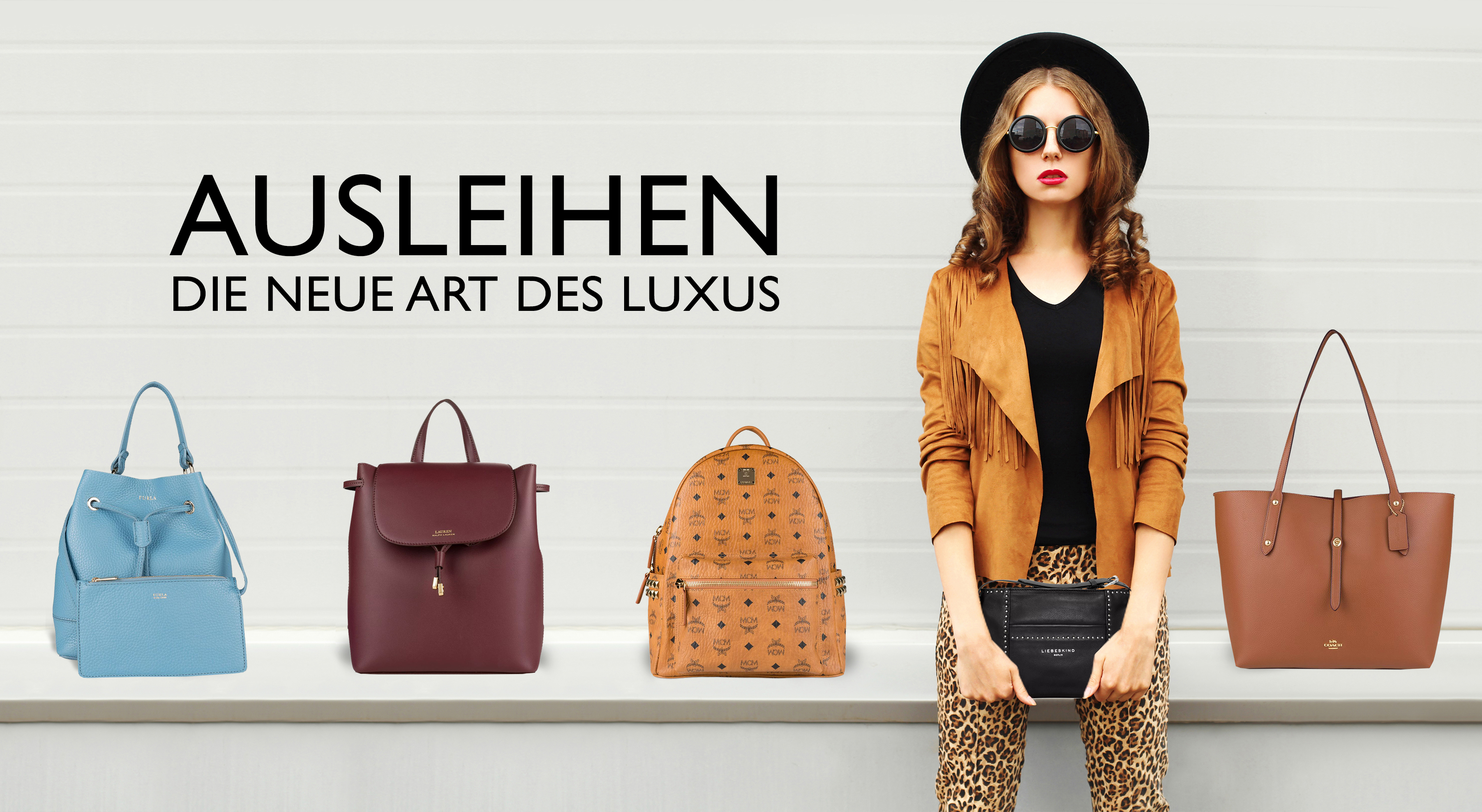
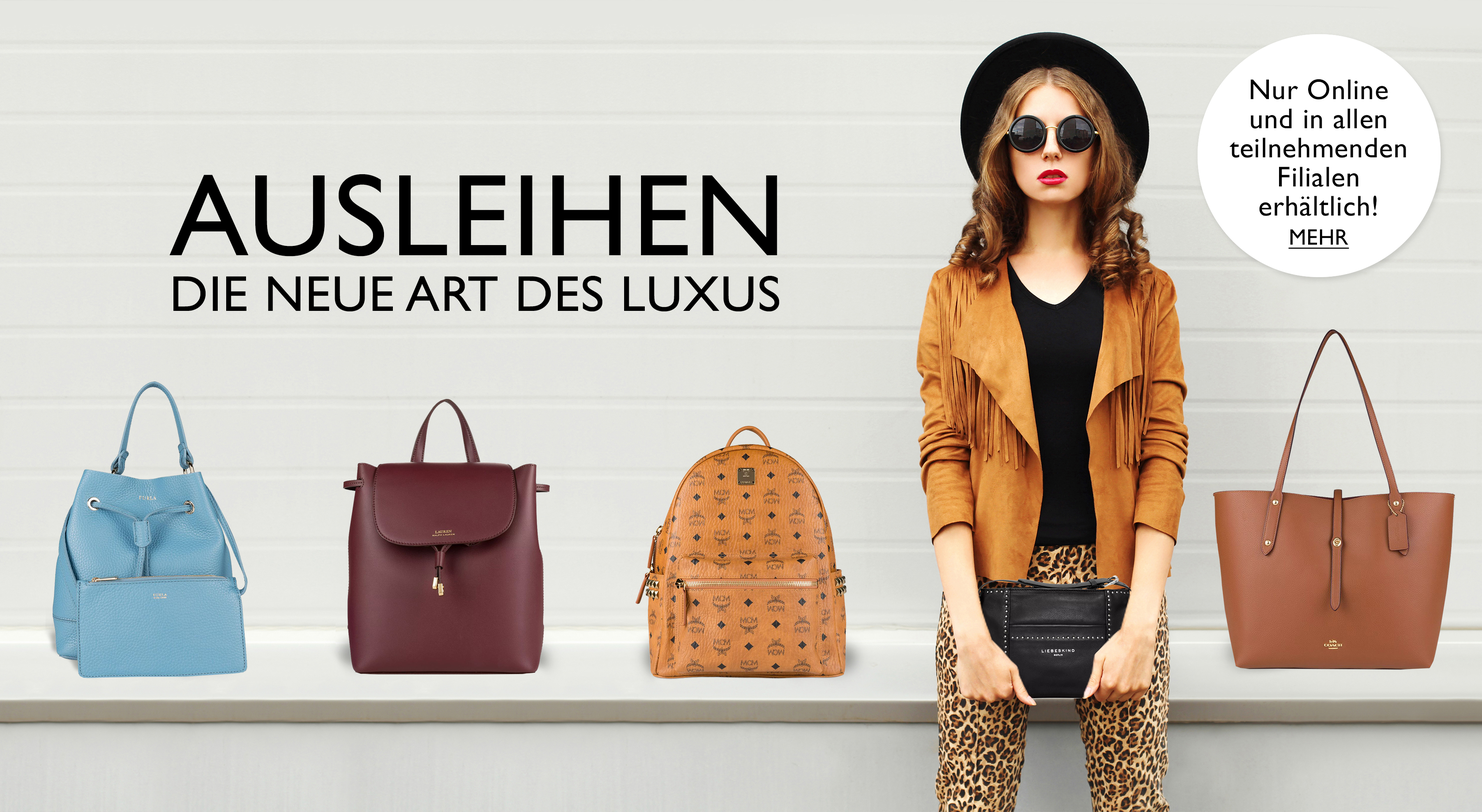
Explizit Filialen erwähnt

Changed region(s): [[0.8069, 0.0312, 0.9932, 0.3429]]

diff --git a/css/agency.min.css b/css/agency.min.css
@@ -2,4 +2,4 @@
  * Start Bootstrap - Agency v4.1.1 (https://startbootstrap.com/template-overviews/agency)
  * Copyright 2013-2018 Start Bootstrap
  * Licensed under MIT (https://github.com/BlackrockDigital/startbootstrap-agency/blob/master/LICENSE)
- */html{font-size:18px}body{overflow-x:hidden;font-family:Lato,Arial,sans-serif}p{line-height:1.75}a{color:#000}a:hover{color:#000}.text-primary{color:#000!important}h1,h2,h3,h4,h5,h6{font-weight:700;font-family:Lato,Arial,sans-serif}section{padding:100px 0}section h2.section-heading{font-weight:300;font-size:1.5em;color:#9f8f68;margin:0}section h3{color:#666;font-size:1em;margin-top:1.2em}section blockquote{font-size:2em;font-weight:300;line-height:1.3}@media (min-width:768px){section blockquote{font-size:3em}}section p{color:#666}section p.section-heading{max-width:660px;margin-left:auto;margin-right:auto}section small{font-size:.65em}.btn{font-family:Lato,Arial,sans-serif;font-weight:500;border-radius:0;color:#9f8f68;text-transform:uppercase;white-space:normal}.btn-xl{font-size:1.3em;padding:.6em 1em}.btn-primary{background-color:#000;border-color:#000}.btn-primary:active,.btn-primary:focus,.btn-primary:hover{background-color:#000!important;border-color:#000!important;color:#fff}.btn-primary:active,.btn-primary:focus{box-shadow:0 0 0 .2rem #9f8f68!important}::-moz-selection{background:#000;text-shadow:none}::selection{background:#000;text-shadow:none}img::selection{background:0 0}img::-moz-selection{background:0 0}#mainNav{background-color:#000}#mainNav .container{display:grid;grid:repeat(3,auto)/auto}#mainNav .navbar-toggler{font-size:12px;right:0;padding:13px;text-transform:uppercase;color:#fff;border:0;background-color:#000;font-family:Lato,Arial,sans-serif}#mainNav .navbar-brand{grid-row:1/-1;color:#000;background-color:#000;padding:1rem;margin-right:auto;font-family:Lato,Arial,sans-serif}#mainNav .navbar-brand.active,#mainNav .navbar-brand:active,#mainNav .navbar-brand:focus,#mainNav .navbar-brand:hover{color:#fff}#mainNav .navbar-brand .trialstore{color:#fff;text-transform:uppercase}#mainNav .navbar-brand .subline{color:#fff;font-size:40%}#mainNav .nav-locations{grid-column:2;justify-self:end;font-size:.6em;text-decoration:none;color:#fff;font-family:Lato,Arial,sans-serif}#mainNav .nav-locations.active,#mainNav .nav-locations:hover{color:#fff}#mainNav .navbar-nav .nav-item .nav-link{font-size:90%;font-weight:400;padding:.75em 0;letter-spacing:1px;color:#fff;font-family:Lato,Arial,sans-serif}#mainNav .navbar-nav .nav-item .nav-link.active,#mainNav .navbar-nav .nav-item .nav-link:hover{color:#fff}@media (min-width:992px){#mainNav{padding-top:5px;padding-bottom:4px;-webkit-transition:padding-top .3s,padding-bottom .3s;-moz-transition:padding-top .3s,padding-bottom .3s;transition:padding-top .3s,padding-bottom .3s;border:none;background-color:#000}#mainNav .container{display:flex}#mainNav .navbar-brand{font-size:1.5em;-webkit-transition:all .3s;-moz-transition:all .3s;transition:all .3s}#mainNav .nav-locations{display:block;font-size:1em;color:#9f8f68;padding:0 .5em}#mainNav .nav-locations+.nav-locations{border-left:2px solid #868e96}#mainNav .navbar-nav .nav-item .nav-link{padding:1.1em 1em!important}#mainNav.navbar-shrink{padding-top:5px;padding-bottom:4px;background-color:#000}#mainNav.navbar-shrink .nav-locations{color:#9f8f68}#mainNav.navbar-shrink .nav-locations.active,#mainNav.navbar-shrink .nav-locations:hover{color:#fff}#mainNav.navbar-shrink .navbar-brand{font-size:1.25em;padding:12px 20px}}header.masthead{position:relative;text-align:center;background-repeat:no-repeat;background-attachment:scroll;background-position:center center;margin-top:5em}header.masthead img{width:100vw}@media (min-width:992px){header.masthead{margin-top:5em}}#faq{background-color:#e9ecef;color:#212529}#locations [class*=js-location-]{margin-bottom:2em}#locations .popup-warning{border-style:solid;border-width:2px;padding:1em;margin-bottom:2em;text-align:center}#locations img{width:100%;max-width:14em;margin-bottom:1em;margin-top:2em}footer{background-color:#9f8f68;color:#fff;padding:25px 0;text-align:center}footer span.copyright{font-size:90%;line-height:40px;text-transform:none;font-family:Lato,Arial,sans-serif}footer ul.quicklinks{font-size:90%;line-height:40px;margin-bottom:0;text-transform:none;font-family:Lato,Arial,sans-serif}ul.social-buttons{margin-bottom:0}ul.social-buttons li a{font-size:20px;line-height:40px;display:block;width:40px;height:40px;-webkit-transition:all .3s;-moz-transition:all .3s;transition:all .3s;color:#fff;border-radius:100%;outline:0;background-color:#212529}ul.social-buttons li a:active,ul.social-buttons li a:focus,ul.social-buttons li a:hover{background-color:#000}.impressum-modal{padding-right:0!important}.impressum-modal .modal-dialog{margin:1rem;max-width:100vw}.impressum-modal .modal-content{padding:100px 0;text-align:center}.impressum-modal .modal-content h2{font-size:3em;margin-bottom:15px}.impressum-modal .modal-content p{margin-bottom:30px}.impressum-modal .modal-content p.item-intro{font-size:16px;font-style:italic;margin:20px 0 30px;font-family:Lato,Arial,sans-serif}.impressum-modal .modal-content ul.list-inline{margin-top:0;margin-bottom:30px}.impressum-modal .modal-content img{margin-bottom:30px}.impressum-modal .modal-content button{cursor:pointer}.impressum-modal .close-modal{position:absolute;top:25px;right:25px;width:75px;height:75px;cursor:pointer;background-color:transparent}.impressum-modal .close-modal:hover{opacity:.3}.impressum-modal .close-modal .lr{z-index:1051;width:1px;height:75px;margin-left:35px;-webkit-transform:rotate(45deg);-ms-transform:rotate(45deg);transform:rotate(45deg);background-color:#212529}.impressum-modal .close-modal .lr .rl{z-index:1052;width:1px;height:75px;-webkit-transform:rotate(90deg);-ms-transform:rotate(90deg);transform:rotate(90deg);background-color:#212529}.quicklinks{cursor:pointer}.agbs-modal{padding-right:0!important}.agbs-modal .modal-dialog{margin:1rem;max-width:100vw}.agbs-modal .modal-content{padding:100px 0}.agbs-modal .modal-content h2{font-size:3em;margin-bottom:15px}.agbs-modal .modal-content p{margin-bottom:30px}.agbs-modal .modal-content p.item-intro{font-size:16px;font-style:italic;margin:20px 0 30px;font-family:Lato,Arial,sans-serif}.agbs-modal .modal-content ul.list-inline{margin-top:0;margin-bottom:30px}.agbs-modal .modal-content img{margin-bottom:30px}.agbs-modal .modal-content button{cursor:pointer}.agbs-modal .close-modal{position:absolute;top:25px;right:25px;width:75px;height:75px;cursor:pointer;background-color:transparent}.agbs-modal .close-modal:hover{opacity:.3}.agbs-modal .close-modal .lr{z-index:1051;width:1px;height:75px;margin-left:35px;-webkit-transform:rotate(45deg);-ms-transform:rotate(45deg);transform:rotate(45deg);background-color:#212529}.agbs-modal .close-modal .lr .rl{z-index:1052;width:1px;height:75px;-webkit-transform:rotate(90deg);-ms-transform:rotate(90deg);transform:rotate(90deg);background-color:#212529}.quicklinks{cursor:pointer}#lab [class*=col-]{margin-bottom:.5em}#lab .gutschein{font-weight:700;color:#d10000}#lab img{width:100%}#newsletter{background:center/cover no-repeat url(/img/newletter-bg.jpg)}#newsletter blockquote,#newsletter p{color:#fff}#newsletter-form{position:relative}#newsletter-form input{border:none;padding:2em 0}#newsletter-form input::placeholder{color:#9f8f68;font-size:1.2em}#newsletter-form input:focus{outline:0;box-shadow:none}@media (max-width:991px){#newsletter-form input{border-bottom:2px solid #9f8f68;border-radius:0}}#newsletter-form button{font-size:1.2em;width:100%;height:100%}#newsletter-form button svg{height:1em;width:2em;margin-left:1em;stroke:currentColor}@media (max-width:991px){#newsletter-form button{margin-bottom:2em}}@media (min-width:992px){#newsletter-form button{text-align:right}#newsletter-form button:after{content:" ";display:block;position:absolute;top:0;left:calc(100% - 1em);height:100%;width:30em;background-color:#000}}@media (max-width:991px){#newsletter-form .col-lg-6{margin-bottom:2em}}.bag-img{width:100%}#product-list h3{margin-bottom:1em}#product-list p{line-height:1}#product-list button{margin-top:1em}#product-list div{margin:3em 0;padding:0 3em}#howitworks img{width:11em;height:10em;padding:2em}#howitworks #steps .col-md-4{padding-left:2em;padding-right:2em}#teaser blockquote{font-size:2.8em}#teaser img{width:100%;margin-top:2.4em}#teaser .bag-teaser{margin-top:7em}div[data-for=address2],div[data-for=province]{display:none}#snipcart-bill-me-later{color:#fff}a:not([href]):not([tabindex]).snip-btn{color:#000}#snipcart-main-content .snip-header__title{font-size:2.5em;font-weight:400;text-transform:none;left:.5em}#snipcart-main-content #snipcart-items .snip-table__header{font-size:1em;font-weight:700;text-transform:none;color:#666;background:#e9ecef}#snipcart-main-content #snipcart-items #snipcart-items-list{border-top:none}#snipcart-main-content #snipcart-items .snip-product__name{text-transform:none}#snipcart-main-content #snipcart-items #snipcart_custom_75-nach-100-Tagen{border:none;padding:0}#snipcart-main-content .custom-snipcart-footer-text{background:#f8f9fa;padding:3em 1.4em 1em}#snipcart-main-content .custom-snipcart-footer-text h2{font-weight:700;margin-bottom:1.5em;color:#868e96}#snipcart-main-content .custom-snipcart-footer-text p{line-height:1.8;color:#868e96;margin-bottom:1.5em}#snipcart-main-content .custom-snipcart-footer-text a{cursor:pointer}
+ */html{font-size:18px}body{overflow-x:hidden;font-family:Lato,Arial,sans-serif}p{line-height:1.75}a{color:#000}a:hover{color:#000}.text-primary{color:#000!important}h1,h2,h3,h4,h5,h6{font-weight:700;font-family:Lato,Arial,sans-serif}section{padding:100px 0}section h2.section-heading{font-weight:300;font-size:1.5em;color:#9f8f68;margin:0}section h3{color:#666;font-size:1em;margin-top:1.2em}section blockquote{font-size:2em;font-weight:300;line-height:1.3}@media (min-width:768px){section blockquote{font-size:3em}}section p{color:#666}section p.section-heading{max-width:660px;margin-left:auto;margin-right:auto}section small{font-size:.65em}.btn{font-family:Lato,Arial,sans-serif;font-weight:500;border-radius:0;color:#9f8f68;text-transform:uppercase;white-space:normal}.btn-xl{font-size:1.3em;padding:.6em 1em}.btn-primary{background-color:#000;border-color:#000}.btn-primary:active,.btn-primary:focus,.btn-primary:hover{background-color:#000!important;border-color:#000!important;color:#fff}.btn-primary:active,.btn-primary:focus{box-shadow:0 0 0 .2rem #9f8f68!important}::-moz-selection{background:#000;text-shadow:none}::selection{background:#000;text-shadow:none}img::selection{background:0 0}img::-moz-selection{background:0 0}#mainNav{background-color:#000}#mainNav .container{display:grid;grid:repeat(3,auto)/auto}#mainNav .navbar-toggler{font-size:12px;right:0;padding:13px;text-transform:uppercase;color:#fff;border:0;background-color:#000;font-family:Lato,Arial,sans-serif}#mainNav .navbar-brand{grid-row:1/-1;color:#000;background-color:#000;padding:1rem;margin-right:auto;font-family:Lato,Arial,sans-serif}#mainNav .navbar-brand.active,#mainNav .navbar-brand:active,#mainNav .navbar-brand:focus,#mainNav .navbar-brand:hover{color:#fff}#mainNav .navbar-brand .trialstore{color:#fff;text-transform:uppercase}#mainNav .navbar-brand .subline{color:#fff;font-size:40%}#mainNav .nav-locations{grid-column:2;justify-self:end;font-size:.6em;text-decoration:none;color:#fff;font-family:Lato,Arial,sans-serif}#mainNav .nav-locations.active,#mainNav .nav-locations:hover{color:#fff}#mainNav .navbar-nav .nav-item .nav-link{font-size:90%;font-weight:400;padding:.75em 0;letter-spacing:1px;color:#fff;font-family:Lato,Arial,sans-serif}#mainNav .navbar-nav .nav-item .nav-link.active,#mainNav .navbar-nav .nav-item .nav-link:hover{color:#fff}@media (min-width:992px){#mainNav{padding-top:5px;padding-bottom:4px;-webkit-transition:padding-top .3s,padding-bottom .3s;-moz-transition:padding-top .3s,padding-bottom .3s;transition:padding-top .3s,padding-bottom .3s;border:none;background-color:#000}#mainNav .container{display:flex}#mainNav .navbar-brand{font-size:1.5em;-webkit-transition:all .3s;-moz-transition:all .3s;transition:all .3s}#mainNav .nav-locations{display:block;font-size:1em;color:#9f8f68;padding:0 .5em}#mainNav .nav-locations+.nav-locations{border-left:2px solid #868e96}#mainNav .navbar-nav .nav-item .nav-link{padding:1.1em 1em!important}#mainNav.navbar-shrink{padding-top:5px;padding-bottom:4px;background-color:#000}#mainNav.navbar-shrink .nav-locations{color:#9f8f68}#mainNav.navbar-shrink .nav-locations.active,#mainNav.navbar-shrink .nav-locations:hover{color:#fff}#mainNav.navbar-shrink .navbar-brand{font-size:1.25em;padding:12px 20px}}header.masthead{position:relative;text-align:center;background-repeat:no-repeat;background-attachment:scroll;background-position:center center;margin-top:5em}header.masthead img{width:100vw}header.masthead .header-button{display:block;position:absolute;top:0;right:0;width:20%;height:40%}@media (min-width:992px){header.masthead{margin-top:5em}}#faq{background-color:#e9ecef;color:#212529}#locations [class*=js-location-]{margin-bottom:2em}#locations .popup-warning{border-style:solid;border-width:2px;padding:1em;margin-bottom:2em;text-align:center}#locations img{width:100%;max-width:14em;margin-bottom:1em;margin-top:2em}footer{background-color:#9f8f68;color:#fff;padding:25px 0;text-align:center}footer span.copyright{font-size:90%;line-height:40px;text-transform:none;font-family:Lato,Arial,sans-serif}footer ul.quicklinks{font-size:90%;line-height:40px;margin-bottom:0;text-transform:none;font-family:Lato,Arial,sans-serif}ul.social-buttons{margin-bottom:0}ul.social-buttons li a{font-size:20px;line-height:40px;display:block;width:40px;height:40px;-webkit-transition:all .3s;-moz-transition:all .3s;transition:all .3s;color:#fff;border-radius:100%;outline:0;background-color:#212529}ul.social-buttons li a:active,ul.social-buttons li a:focus,ul.social-buttons li a:hover{background-color:#000}.impressum-modal{padding-right:0!important}.impressum-modal .modal-dialog{margin:1rem;max-width:100vw}.impressum-modal .modal-content{padding:100px 0;text-align:center}.impressum-modal .modal-content h2{font-size:3em;margin-bottom:15px}.impressum-modal .modal-content p{margin-bottom:30px}.impressum-modal .modal-content p.item-intro{font-size:16px;font-style:italic;margin:20px 0 30px;font-family:Lato,Arial,sans-serif}.impressum-modal .modal-content ul.list-inline{margin-top:0;margin-bottom:30px}.impressum-modal .modal-content img{margin-bottom:30px}.impressum-modal .modal-content button{cursor:pointer}.impressum-modal .close-modal{position:absolute;top:25px;right:25px;width:75px;height:75px;cursor:pointer;background-color:transparent}.impressum-modal .close-modal:hover{opacity:.3}.impressum-modal .close-modal .lr{z-index:1051;width:1px;height:75px;margin-left:35px;-webkit-transform:rotate(45deg);-ms-transform:rotate(45deg);transform:rotate(45deg);background-color:#212529}.impressum-modal .close-modal .lr .rl{z-index:1052;width:1px;height:75px;-webkit-transform:rotate(90deg);-ms-transform:rotate(90deg);transform:rotate(90deg);background-color:#212529}.quicklinks{cursor:pointer}.agbs-modal{padding-right:0!important}.agbs-modal .modal-dialog{margin:1rem;max-width:100vw}.agbs-modal .modal-content{padding:100px 0}.agbs-modal .modal-content h2{font-size:3em;margin-bottom:15px}.agbs-modal .modal-content p{margin-bottom:30px}.agbs-modal .modal-content p.item-intro{font-size:16px;font-style:italic;margin:20px 0 30px;font-family:Lato,Arial,sans-serif}.agbs-modal .modal-content ul.list-inline{margin-top:0;margin-bottom:30px}.agbs-modal .modal-content img{margin-bottom:30px}.agbs-modal .modal-content button{cursor:pointer}.agbs-modal .close-modal{position:absolute;top:25px;right:25px;width:75px;height:75px;cursor:pointer;background-color:transparent}.agbs-modal .close-modal:hover{opacity:.3}.agbs-modal .close-modal .lr{z-index:1051;width:1px;height:75px;margin-left:35px;-webkit-transform:rotate(45deg);-ms-transform:rotate(45deg);transform:rotate(45deg);background-color:#212529}.agbs-modal .close-modal .lr .rl{z-index:1052;width:1px;height:75px;-webkit-transform:rotate(90deg);-ms-transform:rotate(90deg);transform:rotate(90deg);background-color:#212529}.quicklinks{cursor:pointer}#lab [class*=col-]{margin-bottom:.5em}#lab .gutschein{font-weight:700;color:#d10000}#lab img{width:100%}#newsletter{background:center/cover no-repeat url(/img/newletter-bg.jpg)}#newsletter blockquote,#newsletter p{color:#fff}#newsletter-form{position:relative}#newsletter-form input{border:none;padding:2em 0}#newsletter-form input::placeholder{color:#9f8f68;font-size:1.2em}#newsletter-form input:focus{outline:0;box-shadow:none}@media (max-width:991px){#newsletter-form input{border-bottom:2px solid #9f8f68;border-radius:0}}#newsletter-form button{font-size:1.2em;width:100%;height:100%}#newsletter-form button svg{height:1em;width:2em;margin-left:1em;stroke:currentColor}@media (max-width:991px){#newsletter-form button{margin-bottom:2em}}@media (min-width:992px){#newsletter-form button{text-align:right}#newsletter-form button:after{content:" ";display:block;position:absolute;top:0;left:calc(100% - 1em);height:100%;width:30em;background-color:#000}}@media (max-width:991px){#newsletter-form .col-lg-6{margin-bottom:2em}}#bags .bag-img{width:100%}#bags .info-text{font-size:.8em;margin:3em 0 0;text-align:center}#bags #product-list h3{margin-bottom:1em}#bags #product-list p{line-height:1}#product-list button{margin-top:1em}#bags #product-list div{margin:3em 0;padding:0 3em}#howitworks img{width:11em;height:10em;padding:2em}#howitworks #steps .col-md-4{padding-left:2em;padding-right:2em}#teaser blockquote{font-size:2.8em}#teaser img{width:100%;margin-top:2.4em}#teaser .bag-teaser{margin-top:7em}div[data-for=address2],div[data-for=province]{display:none}#snipcart-bill-me-later{color:#fff}a:not([href]):not([tabindex]).snip-btn{color:#000}#snipcart-main-content .snip-header__title{font-size:2.5em;font-weight:400;text-transform:none;left:.5em}#snipcart-main-content #snipcart-items .snip-table__header{font-size:1em;font-weight:700;text-transform:none;color:#666;background:#e9ecef}#snipcart-main-content #snipcart-items #snipcart-items-list{border-top:none}#snipcart-main-content #snipcart-items .snip-product__name{text-transform:none}#snipcart-main-content #snipcart-items #snipcart_custom_75-nach-100-Tagen{border:none;padding:0}#snipcart-main-content .custom-snipcart-footer-text{background:#f8f9fa;padding:3em 1.4em 1em}#snipcart-main-content .custom-snipcart-footer-text h2{font-weight:700;margin-bottom:1.5em;color:#868e96}#snipcart-main-content .custom-snipcart-footer-text p{line-height:1.8;color:#868e96;margin-bottom:1.5em}#snipcart-main-content .custom-snipcart-footer-text a{cursor:pointer}

diff --git a/die-neue-art-des-luxus/index.html b/die-neue-art-des-luxus/index.html
@@ -96,6 +96,7 @@
   <!-- Header -->
   <header class="masthead">
     <img src="img/die-neue-art-des-luxus-min.jpg" />
+    <a class="js-scroll-trigger header-button" href="#locations"></a>
   </header>
 
   <!-- Bags -->
@@ -109,6 +110,10 @@
           Such dir das Modell, das dir gefällt und leih’ es dir aus – nur solange du willst. Unkompliziert, online und
           zu einem Bruchteil des Kaufpreises.</p>
       </div>
+      <p class="info-text">
+        Nur Online und in allen teilnehmenden Filialen erhältlich!
+      </p>
+
       <div id="product-list" class="row">
 
         <div class="col-lg-4">
@@ -419,11 +424,11 @@
     <div class="container">
       <div class="row">
         <div class="col-lg-12 text-center">
-          <h2 class="section-heading text-uppercase">Standorte</h2>
-          <blockquote>Traumtaschen zum Greifen nah!</blockquote>
-          <p class="section-heading">Finde jetzt einen GLOBUS Store in deiner Nähe und sicher dir deine Tasche auf Zeit
-            – unverbindlich und
-            ohne Risiko.</p>
+          <h2 class="section-heading text-uppercase">Teilnehmende Filialen</h2>
+          <blockquote>Hol’ dir deine Lieblingtasche vor Ort!</blockquote>
+          <p class="section-heading">In den folgenden Flagship-Stores in Zurich und St. Gallen kannst du trendige Designer Bags
+            und viele weitere            Premiumprodukte aus den Bereichen Fashion, Elektronik, Haushalt und Wohnen direkt ausleihen und abholen. Schau’
+            einfach            mal rein und lass dich inspirieren. Unser Service-Personal vor Ort freut sich auf dich und berät dich gern!*</p>
         </div>
       </div>
       <div style="margin-top: 2em;" class="row">
@@ -469,7 +474,7 @@
             data-reactid="358" width="100%" height="550px" frameborder="0"></iframe>
         </div>
       </div>
-    </div>
+      <p class="text-center">*Alle anderen Globus-Filialen sind derzeit noch ausgenommen von der Aktion.</p>
     </div>
   </section>
 

diff --git a/dein-exklusiver-ausleih-store/index.html b/dein-exklusiver-ausleih-store/index.html
@@ -97,6 +97,7 @@
   <!-- Header -->
   <header class="masthead">
     <img src="img/dein-exklusiver-ausleih-store.jpg" />
+    <a class="js-scroll-trigger header-button" href="#locations"></a>
   </header>
 
   <!-- Bags -->
@@ -110,6 +111,10 @@
           die neuesten Modelle von Lagerfeld, Furla oder Coach aus und behalte sie nur so
           lange du willst. Jetzt in deinem Ausleih-Store shoppen gehen!</p>
       </div>
+      <p class="info-text">
+        Nur Online und in allen teilnehmenden Filialen erhältlich!
+      </p>
+
       <div id="product-list" class="row">
 
         <div class="col-lg-4">
@@ -420,11 +425,12 @@
     <div class="container">
       <div class="row">
         <div class="col-lg-12 text-center">
-          <h2 class="section-heading text-uppercase">Standorte</h2>
-          <blockquote>Traumtaschen zum Greifen nah!</blockquote>
-          <p class="section-heading">Finde jetzt einen GLOBUS Store in deiner Nähe und sicher dir deine Tasche auf Zeit
-            – unverbindlich und
-            ohne Risiko.</p>
+          <h2 class="section-heading text-uppercase">Teilnehmende Filialen</h2>
+          <blockquote>Hol’ dir deine Lieblingtasche vor Ort!</blockquote>
+          <p class="section-heading">In den folgenden Flagship-Stores in Zurich und St. Gallen kannst du trendige Designer Bags
+            und viele weitere Premiumprodukte aus den Bereichen Fashion, Elektronik, Haushalt und Wohnen direkt ausleihen und
+            abholen. Schau’
+            einfach mal rein und lass dich inspirieren. Unser Service-Personal vor Ort freut sich auf dich und berät dich gern!*</p>
         </div>
       </div>
       <div style="margin-top: 2em;" class="row">
@@ -470,7 +476,7 @@
             data-reactid="358" width="100%" height="550px" frameborder="0"></iframe>
         </div>
       </div>
-    </div>
+      <p class="text-center">*Alle anderen Globus-Filialen sind derzeit noch ausgenommen von der Aktion.</p>
     </div>
   </section>
 

diff --git a/ausleihen-was-du-willst/index.html b/ausleihen-was-du-willst/index.html
@@ -96,6 +96,7 @@
   <!-- Header -->
   <header class="masthead">
     <img src="img/ausleihen-was-du-willst.jpg" />
+    <a class="js-scroll-trigger header-button" href="#locations"></a>
   </header>
 
   <!-- Bags -->
@@ -108,7 +109,11 @@
           unkompliziert, online und zu einem Bruchteil des Kaufpreises. <br />Wähle aus den folgenden Top-Modellen
           jetzt den Eye-Catcher, der zu dir
           passt!</p>
+
       </div>
+      <p class="info-text">
+        Nur Online und in allen teilnehmenden Filialen erhältlich!
+      </p>
       <div id="product-list" class="row">
 
         <div class="col-lg-4">
@@ -419,11 +424,11 @@
     <div class="container">
       <div class="row">
         <div class="col-lg-12 text-center">
-          <h2 class="section-heading text-uppercase">Standorte</h2>
-          <blockquote>Traumtaschen zum Greifen nah!</blockquote>
-          <p class="section-heading">Finde jetzt einen GLOBUS Store in deiner Nähe und sicher dir deine Tasche auf Zeit
-            – unverbindlich und
-            ohne Risiko.</p>
+          <h2 class="section-heading text-uppercase">Teilnehmende Filialen</h2>
+          <blockquote>Hol’ dir deine Lieblingtasche vor Ort!</blockquote>
+          <p class="section-heading">In den folgenden Flagship-Stores in Zurich und St. Gallen kannst du trendige Designer Bags und viele weitere
+          Premiumprodukte aus den Bereichen Fashion, Elektronik, Haushalt und Wohnen direkt ausleihen und abholen. Schau’ einfach
+          mal rein und lass dich inspirieren. Unser Service-Personal vor Ort freut sich auf dich und berät dich gern!*</p>
         </div>
       </div>
       <div style="margin-top: 2em;" class="row">
@@ -469,7 +474,7 @@
             data-reactid="358" width="100%" height="550px" frameborder="0"></iframe>
         </div>
       </div>
-    </div>
+      <p class="text-center">*Alle anderen Globus-Filialen sind derzeit noch ausgenommen von der Aktion.</p>
     </div>
   </section>
 

diff --git a/leih-ich-mir/index.html b/leih-ich-mir/index.html
@@ -96,6 +96,7 @@
   <!-- Header -->
   <header class="masthead">
     <img src="img/das-leih-ich-mir.jpg" />
+    <a class="js-scroll-trigger header-button" href="#locations"></a>
   </header>
 
   <!-- Bags -->
@@ -108,6 +109,10 @@
           u.v.m. zusammengestellt. Sei spontan! Anstatt zu kaufen, leih dir jetzt dein exklusives Luxus-Modell –
           solange es dir gefällt.</p>
       </div>
+      <p class="info-text">
+        Nur Online und in allen teilnehmenden Filialen erhältlich!
+      </p>
+
       <div id="product-list" class="row">
 
         <div class="col-lg-4">
@@ -418,11 +423,12 @@
     <div class="container">
       <div class="row">
         <div class="col-lg-12 text-center">
-          <h2 class="section-heading text-uppercase">Standorte</h2>
-          <blockquote>Traumtaschen zum Greifen nah!</blockquote>
-          <p class="section-heading">Finde jetzt einen GLOBUS Store in deiner Nähe und sicher dir deine Tasche auf Zeit
-            – unverbindlich und
-            ohne Risiko.</p>
+          <h2 class="section-heading text-uppercase">Teilnehmende Filialen</h2>
+          <blockquote>Hol’ dir deine Lieblingtasche vor Ort!</blockquote>
+          <p class="section-heading">In den folgenden Flagship-Stores in Zurich und St. Gallen kannst du trendige Designer Bags
+            und viele weitere Premiumprodukte aus den Bereichen Fashion, Elektronik, Haushalt und Wohnen direkt ausleihen und
+            abholen. Schau’
+            einfach mal rein und lass dich inspirieren. Unser Service-Personal vor Ort freut sich auf dich und berät dich gern!*</p>
         </div>
       </div>
       <div style="margin-top: 2em;" class="row">
@@ -468,7 +474,7 @@
             data-reactid="358" width="100%" height="550px" frameborder="0"></iframe>
         </div>
       </div>
-    </div>
+      <p class="text-center">*Alle anderen Globus-Filialen sind derzeit noch ausgenommen von der Aktion.</p>
     </div>
   </section>
 

diff --git a/css/agency.css b/css/agency.css
@@ -258,6 +258,15 @@ header.masthead img {
   width: 100vw;
 }
 
+header.masthead .header-button {
+  display: block;
+  position: absolute;
+  top: 0;
+  right: 0;
+  width: 20%;
+  height: 40%;
+}
+
 @media (min-width: 992px) {
   header.masthead {
     margin-top: 5em;
@@ -593,15 +602,21 @@ ul.social-buttons li a:active, ul.social-buttons li a:focus, ul.social-buttons l
   }
 }
 
-.bag-img {
+#bags .bag-img {
   width: 100%;
 }
 
-#product-list h3 {
+#bags .info-text {
+  font-size: 0.8em;
+  margin: 3em 0 0;
+  text-align: center;
+}
+
+#bags #product-list h3 {
   margin-bottom: 1em;
 }
 
-#product-list p {
+#bags #product-list p {
   line-height: 1;
 }
 
@@ -609,7 +624,7 @@ ul.social-buttons li a:active, ul.social-buttons li a:focus, ul.social-buttons l
   margin-top: 1em;
 }
 
-#product-list div {
+#bags #product-list div {
   margin: 3em 0;
   padding: 0 3em;
 }

diff --git a/scss/_masthead.scss b/scss/_masthead.scss
@@ -1,18 +1,27 @@
 // Styling for the masthead
 header.masthead {
-  position: relative;
-  text-align: center;
-  background-repeat: no-repeat;
-  background-attachment: scroll;
-  background-position: center center;
-  margin-top: 5em;
-  img {
-    width: 100vw;
-  }
+    position: relative;
+    text-align: center;
+    background-repeat: no-repeat;
+    background-attachment: scroll;
+    background-position: center center;
+    margin-top: 5em;
+    img {
+        width: 100vw;
+    }
+
+    .header-button {
+        display: block;
+        position: absolute;
+        top: 0;
+        right: 0;
+        width: 20%;
+        height: 40%;
+    }
 }
 
 @media (min-width: 992px) {
-  header.masthead {
-    margin-top: 5em;
-  }
+    header.masthead {
+        margin-top: 5em;
+    }
 }

diff --git a/scss/_bags.scss b/scss/_bags.scss
@@ -1,15 +1,18 @@
-.bag-img {
-  width: 100%;
-}
+#bags {
+    .bag-img {
+        width: 100%;
+    }
 
-#product-list {
-  h3 {
-    margin-bottom: 1em;
-  }
+    .info-text {
+        font-size: 0.8em;
+        margin: 3em 0 0;
+        text-align: center;
+    }
 
-  p {
-    line-height: 1;
-  }
+    #product-list {
+        h3 {
+            margin-bottom: 1em;
+        }
 
   button {
     margin-top: 1em;
